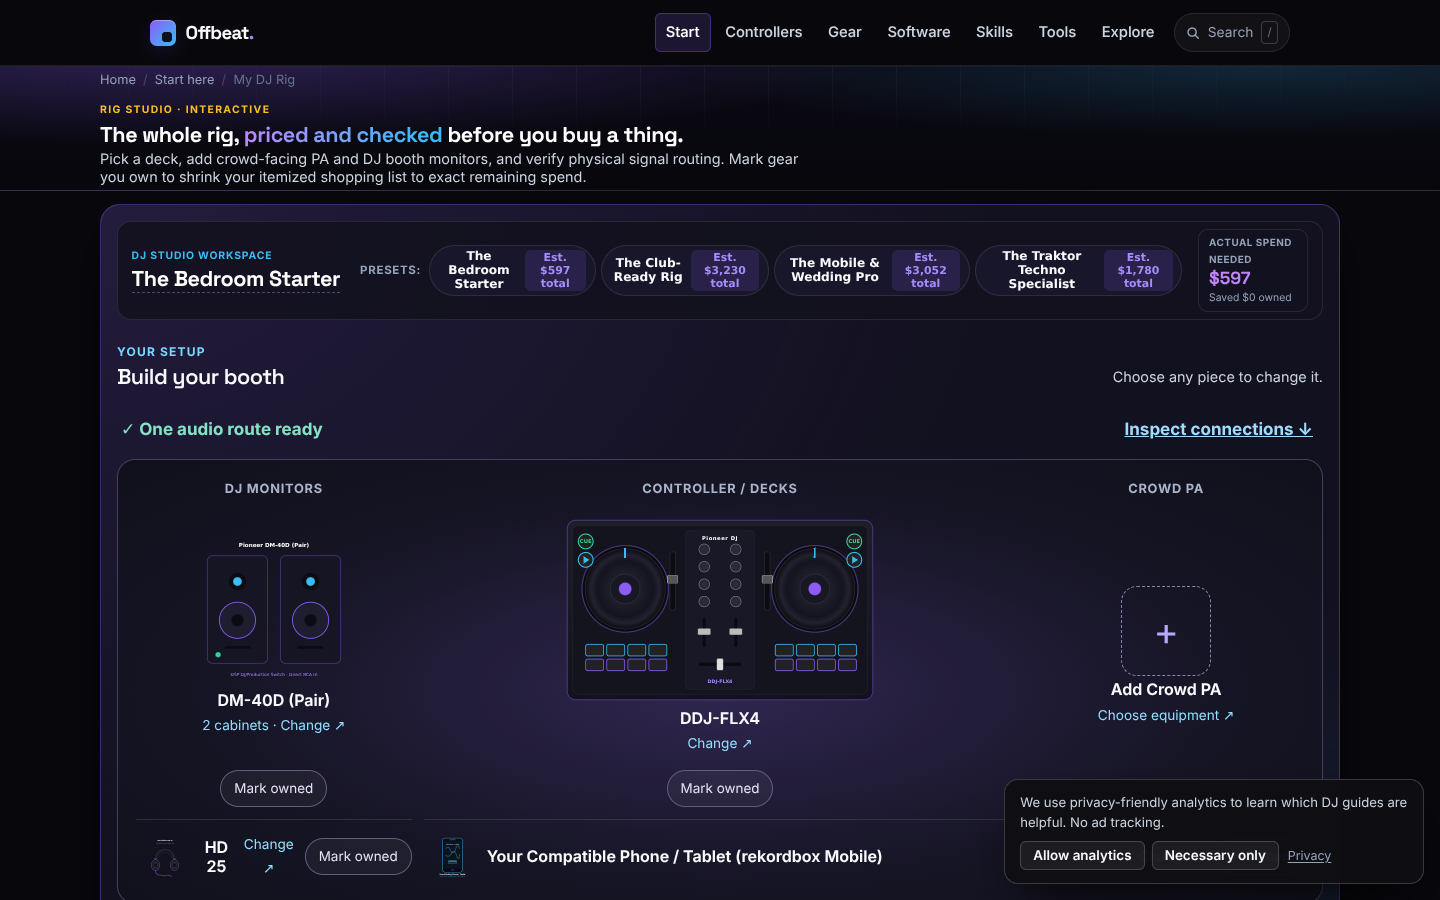
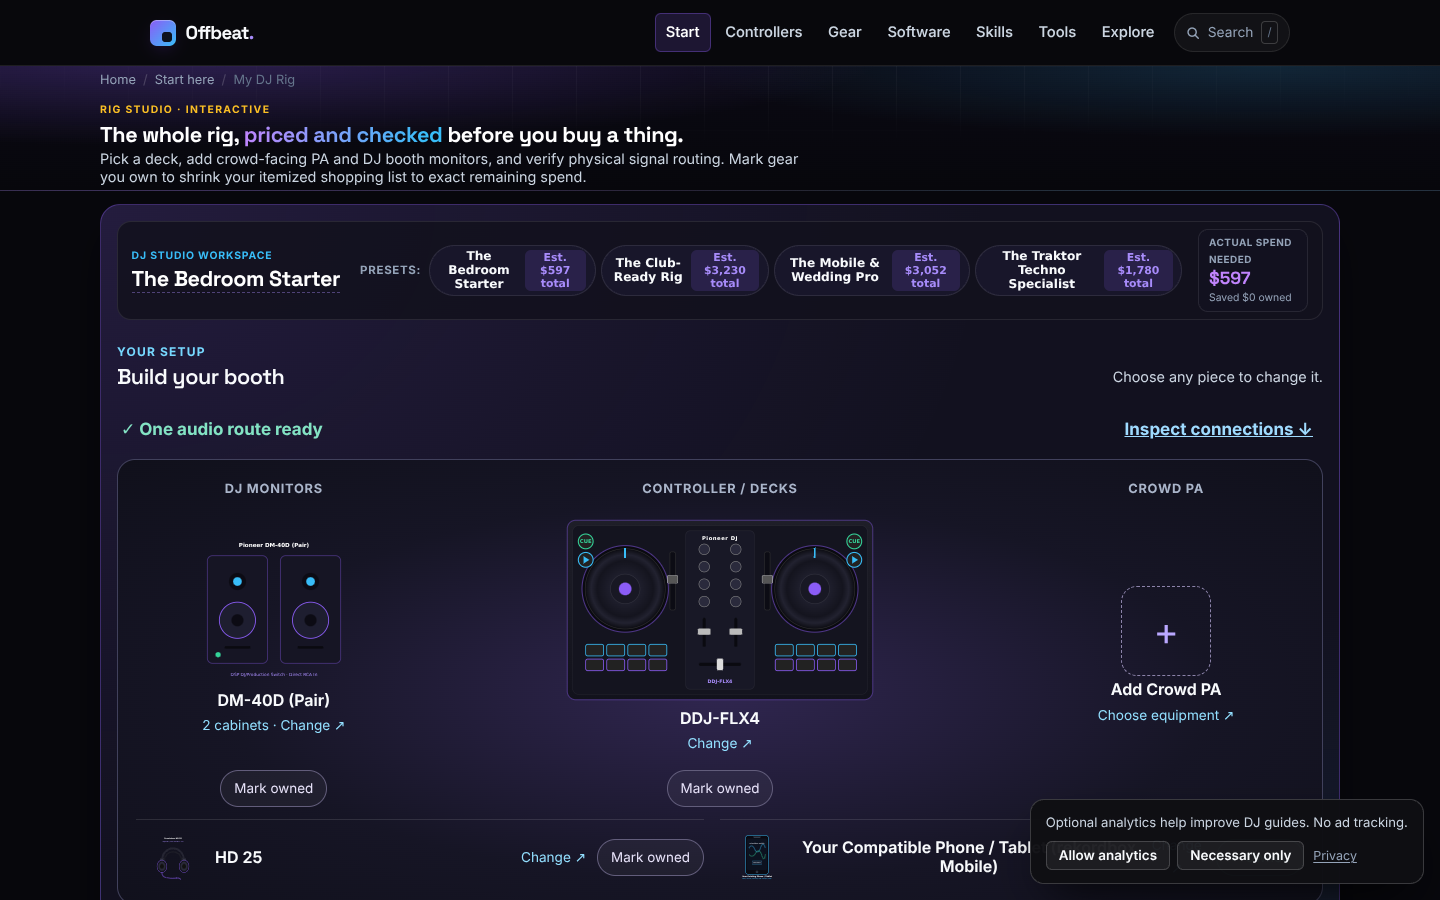
Fix export interaction and verify equipment-first mobile workflow

Changed region(s): [[0.3125, 0.84, 0.9688, 0.9956], [0.0938, 0.9333, 0.2812, 0.9644]]

diff --git a/assets/rig-builder.js b/assets/rig-builder.js
@@ -827,7 +827,7 @@
             </div>
           </div>
 
-          <details class="mobile-presets"><summary>Change starting point</summary><div>${CATALOG.presets.map(function(p) { return `<button type="button" class="mobile-preset" data-preset-id="${p.id}">${escapeHtml(p.name)}</button>`; }).join('')}</div></details>
+          <details class="mobile-presets"><summary>Choose preset</summary><div>${CATALOG.presets.map(function(p) { return `<button type="button" class="mobile-preset" data-preset-id="${p.id}">${escapeHtml(p.name)}</button>`; }).join('')}</div></details>
           <!-- Immediate Above-The-Fold Spend & Readiness -->
           <div class="rig-quick-spend-strip">
             <div class="quick-spend-card">
@@ -1111,7 +1111,7 @@
     return `<div class="visual-equipment ${extraClass || ''}">
       <span class="visual-role">${label}</span>
       <button type="button" class="visual-pick" ${pick} aria-label="${item ? 'Change ' : 'Add '}${label}">
-        ${item ? `<span class="visual-images">${Array.from({length: role && (item.speaker_units || 1) === 1 ? Math.min(count, 4) : 1}, function() { return `<img src="${escapeHtml(item.image)}" alt="">`; }).join('')}</span><strong>${escapeHtml(item.model)}</strong><span>${role ? count + (count === 1 ? ' cabinet' : ' cabinets') + ' · ' : ''}Change ↗</span>` : `<span class="visual-add-icon">+</span><strong>Add ${label}</strong><span>Choose equipment ↗</span>`}
+        ${item ? `<span class="visual-images">${Array.from({length: role && (item.speaker_units || 1) === 1 ? Math.min(count, 8) : 1}, function() { return `<img src="${escapeHtml(item.image)}" alt="">`; }).join('')}</span><strong>${escapeHtml(item.model)}</strong><span>${role ? count + (count === 1 ? ' cabinet' : ' cabinets') + ' · ' : ''}Change ↗</span>` : `<span class="visual-add-icon">+</span><strong>Add ${label}</strong><span>Choose equipment ↗</span>`}
       </button>
       ${item ? `<button type="button" class="visual-own ${owned ? 'is-owned' : ''}" data-action="toggle-slot-owned" data-slot-id="${id}" ${item.no_purchase ? 'disabled' : ''}>${owned ? '✓ Owned' : 'Mark owned'}</button>` : ''}
     </div>`;
@@ -1219,13 +1219,15 @@
     return `
       <section class="rig-booth-section" id="interactive-booth-stage">
         <div class="visual-heading"><div><span class="visual-eyebrow">YOUR SETUP</span><h3>Build your booth</h3></div><p>Choose any piece to change it.</p></div>
-        <div class="visual-next"><span class="visual-route ${hasConflict || anyCableMissing ? 'needs-review' : ''}">${hasConflict ? '⚠ Routing limitation' : anyCableMissing ? '◦ Cable needed' : (paCableConfirmed && monCableConfirmed ? '✓ Two audio routes ready' : (paCableConfirmed || monCableConfirmed ? '✓ One audio route ready' : '◦ Check audio connections'))}</span><button type="button" class="visual-route-link" onclick="this.closest('.rig-booth-section').querySelector('.booth-details').open=true; this.closest('.rig-booth-section').querySelector('#signal-highway').scrollIntoView({behavior:'smooth',block:'start'})">Inspect connections ↓</button></div>
+        <div class="visual-next"><span class="visual-route ${hasConflict || anyCableMissing ? 'needs-review' : ''}">${hasConflict ? '⚠ Routing limitation' : anyCableMissing ? '◦ Cable needed' : (paCableConfirmed && monCableConfirmed ? '✓ Two audio routes ready' : (paCableConfirmed || monCableConfirmed ? '✓ One audio route ready' : '◦ Check audio connections'))}</span><button type="button" class="visual-route-link" data-action="inspect-routes">Inspect connections ↓</button></div>
         <div class="visual-stage">
           ${renderVisualEquipment(monitorSlot, 'speakers', 'dj_monitor', 'DJ monitors', 'core-monitor', 'visual-monitor')}
           ${renderVisualEquipment(controllerSlot, 'controllers', '', 'Controller / decks', 'core-ctrl', 'visual-controller')}
           ${renderVisualEquipment(paSlot, 'speakers', 'crowd_pa', 'Crowd PA', 'core-pa', 'visual-pa')}
-          ${renderVisualEquipment(headphonesSlot, 'headphones', '', 'Headphones', 'core-hp', 'visual-headphones')}
-          ${renderVisualEquipment(hostSlot, 'laptops', '', 'Music source', 'core-host', 'visual-host')}
+          <div class="visual-secondary">
+            ${renderVisualEquipment(headphonesSlot, 'headphones', '', 'Headphones', 'core-hp', 'visual-headphones')}
+            ${renderVisualEquipment(hostSlot, 'laptops', '', 'Music source', 'core-host', 'visual-host')}
+          </div>
         </div>
         <details class="booth-details"><summary>Equipment details, quantities &amp; routing</summary>
         <div class="rig-booth-stage">
@@ -2584,6 +2586,9 @@
       // 2. Button / Card actions
       var btn = e.target.closest("[data-action]") || e.target.closest(".btn-select-item") || e.target.closest(".picker-close");
       if (!btn) return;
+      // Dialog contents without their own action (such as export tabs and inputs)
+      // must not inherit the backdrop's close action.
+      if (btn.classList.contains("picker-backdrop") && e.target !== btn) return;
 
       var action = btn.getAttribute("data-action");
 
@@ -2622,6 +2627,13 @@
           saveActiveState();
           renderApp();
         }
+        return;
+      }
+
+      if (action === "inspect-routes") {
+        var stage = btn.closest(".rig-booth-section");
+        stage.querySelector(".booth-details").open = true;
+        stage.querySelector("#signal-highway").scrollIntoView({ behavior: "smooth", block: "start" });
         return;
       }
 

diff --git a/assets/rig-studio.css b/assets/rig-studio.css
@@ -1404,3 +1404,17 @@
   .rig-main-title { white-space:normal; }
   .ob-consent-text { line-height:1.25; }
 }
+@media (max-width:700px) {
+  .mobile-presets { border:0; background:transparent; padding:0; }
+  .mobile-presets summary { list-style:none; white-space:nowrap; color:#c8baff; }
+  .mobile-presets summary::-webkit-details-marker { display:none; }
+  .mobile-presets summary::after { content:none; }
+  .mobile-presets summary::before { content:'▾ '; }
+}
+.visual-images img:not(:only-child) { flex:1 1 0; width:0; }
+.visual-secondary { grid-column:1 / -1; display:grid; grid-template-columns:1fr 1fr; gap:16px; }
+.visual-headphones .visual-pick img, .visual-host .visual-pick img { width:64px; height:48px; }
+@media (max-width:700px) {
+  .visual-secondary { grid-template-columns:1fr; gap:0; }
+  .visual-headphones .visual-pick img, .visual-host .visual-pick img { width:48px; height:38px; }
+}

diff --git a/assets/offbeat-analytics.js b/assets/offbeat-analytics.js
@@ -197,7 +197,7 @@
     var row = el('div', { 'class': 'ob-consent-actions' });
 
     if (consent === 'unknown') {
-      p.textContent = 'We use privacy-friendly analytics to learn which DJ guides are helpful. No ad tracking.';
+      p.textContent = 'Optional analytics help improve DJ guides. No ad tracking.';
       row.appendChild(button('Allow analytics', 'grant'));
       row.appendChild(button('Necessary only', 'deny'));
       row.appendChild(privacyLink());

diff --git a/evidence/comparison-visual-quality.md b/evidence/comparison-visual-quality.md
@@ -1,0 +1,12 @@
+# Rig Architect visual comparison
+
+Baseline: commit 41aec875d59fc79a5fe47a24aade9288c4afd1b2. After: equipment-first redesign. Each PNG is a viewport capture at device scale 1 from a fresh Chromium page with the same preset URL, default equipment and ownership, no saved state, and unanswered analytics consent. Bedroom Starter is FLX4 + DM-40D; Mobile Pro is PRIME 4+ + one EON715 (not a two-zone setup). Neither comparison silently changes the preset to make it look better.
+
+- `comparison-before/bedroom-starter-1440.png` and `comparison-after/bedroom-starter-1440.png`
+- `comparison-before/mobile-pro-1440.png` and `comparison-after/mobile-pro-1440.png`
+- `comparison-before/bedroom-starter-390.png` and `comparison-after/bedroom-starter-390.png`
+- `comparison-before/mobile-pro-390.png` and `comparison-after/mobile-pro-390.png`
+
+Inspection: the controller, monitor and PA choices are visible together on desktop instead of being displaced by the PA and cable panels; the component artwork is larger and clickable. At 390px the controller and route summary appear sooner, but the speaker choices and headphones still require scrolling, particularly while consent is unanswered. The desktop consent prompt can overlap the lower-right portion of the canvas. The schematic product illustrations and grouped speaker tiles communicate selection, not a realistic physical booth or the actual direction of each cabinet. Quantities and technical routes remain in the expandable detail view.
+
+Real Chromium interaction is exercised by `tests/rig-visual-interactions.cjs`: add HS5 monitors, reject them as PA picker candidates, swap PA to QSC, mark it owned, change controller to FLX4, inspect the routing limitation, save, and restore the exported share link. Estimated spend changed $3,800 → $2,901 after marking the PA owned; the changed-controller shared rig reloaded at $1,001. This is a functional check, not a substitute for human usability testing.
